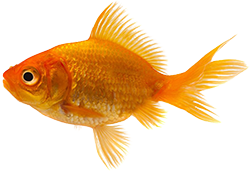
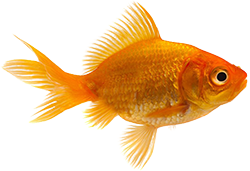
yes

diff --git a/p5/Unit3/mp3/sketch.js b/p5/Unit3/mp3/sketch.js
@@ -3,22 +3,34 @@ var cars = [];
 var frogPos;
 var myState = 0;
 var maxCars = 10;
-var maxTimer = 30 * 60;
+var maxTimer = 30;
 var timer = maxTimer;
+
 let tank;
 let fish;
+let reflectfish;
 let rotatefish;
+let lose;
+let win;
 
 
 function setup() {
   createCanvas(2880 / 2, 2104 / 2);
+
+  for (var i = 0; i < maxCars; i++) {
+    cars.push(new Car());
+  }
+
+  lose = loadSound('assets/lost.mp3');
+  win = loadSound('assets/success.mp3');
+
 
   frogPos = createVector(width / 2, height - 300);
   textAlign(CENTER);
   imageMode(CENTER);
   tank = loadImage('assets/tank.png');
   fish = loadImage('assets/fish6.png');
-  reflectfish = loadImage('assets/fish6.png');
+  reflectfish = loadImage('assets/reflectfish.png');
   rotatefish = loadImage('assets/rotatefish.png');
 }
 
@@ -38,13 +50,18 @@ function draw() {
 
       image(tank, 0, 0, 2880, 2104);
       game();
-      timer = timer - 1;
+      if (frameCount % 60 == 0 && timer > 0) {
+        // if the frameCount is divisible by 60, then a second has passed. it will stop at 0
+          timer --;
+        }
       if (timer <= 0) {
         timer = maxTimer;
+        lose.play();
         myState = 3;
       }
       fill('white');
       textSize(24);
+      text("Time: " + timer, 1350, 50);
       text("Use the arrow keys to move.\n Collect all of the food with in 30 seconds to win.", 720, 100);
       break;
 
@@ -86,7 +103,9 @@ function mouseReleased() {
         cars.push(new Car());
       }
       myState = 0;
+
       break;
+
 
     case 3: // they lost
       //reset maxTimer
@@ -95,7 +114,6 @@ function mouseReleased() {
       cars = [];
       for (var i = 0; i < maxCars; i++) {
         cars.push(new Car());
-
       }
       myState = 1;
       break;
@@ -111,13 +129,14 @@ function game() {
   for (var i = 0; i < cars.length; i++) {
     cars[i].display();
     cars[i].drive();
-    if (cars[i].pos.dist(frogPos) < 50) {
+    if (cars[i].pos.dist(frogPos) < 75) {
       cars.splice(i, 1);
 
     }
   }
 
   if (cars.length == 0) {
+    win.play();
     myState = 2;
 
   }
@@ -126,40 +145,75 @@ function game() {
   //frog
   //fill('green');
   //ellipse(frogPos.x, frogPos.y, 50, 50);
-  image(fish, frogPos.x, frogPos.y, 250, 171);
   //call keyboard commands
   checkForKeys();
 
 
 }
 
+
 //keyboard commands
 function checkForKeys() {
-  if (keyIsDown(LEFT_ARROW)) frogPos.x -= 5;
-  if (keyIsDown(RIGHT_ARROW)) frogPos.x += 5;
-  if (keyIsDown(UP_ARROW)) frogPos.y -= 5;
-  if (keyIsDown(DOWN_ARROW)) frogPos.y += 5;
+if (keyIsDown(UP_ARROW)) frogPos.y -= 7;
+
+
+if (keyIsDown(UP_ARROW) && !(keyIsDown(RIGHT_ARROW))) {
+  image(fish, frogPos.x, frogPos.y, 250, 171);
 }
 
+if (keyIsDown(DOWN_ARROW)) frogPos.y += 7;
 
-
-// our car class
-function Car() {
-  //attributes
-  this.pos = createVector(random(width), random(height));
-  this.vel = createVector(random(-5, 5), random(-5, 5));
-  //methods
-  this.display = function() {
-    fill('yellow');
-    ellipse(this.pos.x, this.pos.y, 10, 10);
-  }
-
-  this.drive = function() {
-    this.pos.add(this.vel);
-    //This loops from all sides
-    if (this.pos.x > width) this.pos.x = 0;
-    if (this.pos.x < 0) this.pos.x = width;
-    if (this.pos.y > height) this.pos.y = 0;
-    if (this.pos.y < 0) this.pos.y = height;
-  }
+if (keyIsDown(DOWN_ARROW) && !(keyIsDown(RIGHT_ARROW))) {
+  image(fish, frogPos.x, frogPos.y, 250, 171);
 }
+
+if (keyIsDown(LEFT_ARROW) && !(keyIsDown(RIGHT_ARROW))) {
+  image(fish, frogPos.x, frogPos.y, 250, 171);
+}
+
+if (keyIsDown(LEFT_ARROW)){frogPos.x -= 7;
+  image(fish, frogPos.x, frogPos.y, 250, 171);
+}
+
+if (keyIsDown(RIGHT_ARROW)) {
+  frogPos.x += 7;
+  image(reflectfish, frogPos.x, frogPos.y, 250, 171);
+}
+
+if (!(keyIsDown(UP_ARROW) || keyIsDown(DOWN_ARROW) || keyIsDown(LEFT_ARROW) || keyIsDown(RIGHT_ARROW)))
+image(fish, frogPos.x, frogPos.y, 250, 171);
+
+
+      if (frogPos.x < 0) frogPos.x = 0;
+      if (frogPos.x > width) frogPos.x = width;
+      if (frogPos.y < 0) frogPos.y = 0;
+      if (frogPos.y > height) frogPos.y = height;
+    }
+
+
+
+
+      // our car class
+      function Car() {
+        //attributes
+        this.pos = createVector(random(width), random(height));
+        this.vel = createVector(random(-5, 5), random(-5, 5));
+        //methods
+        this.display = function() {
+          fill('yellow');
+          ellipse(this.pos.x, this.pos.y, 10, 10);
+        }
+
+        this.drive = function() {
+          this.pos.add(this.vel);
+          //This loops from all sides
+          if (this.pos.x > width) this.pos.x = 0;
+          if (this.pos.x < 0) this.pos.x = width;
+          if (this.pos.y > height) this.pos.y = 0;
+          if (this.pos.y < 0) this.pos.y = height;
+        }
+      }
+
+      function touchStarted() {
+        getAudioContext().resume();
+      }
